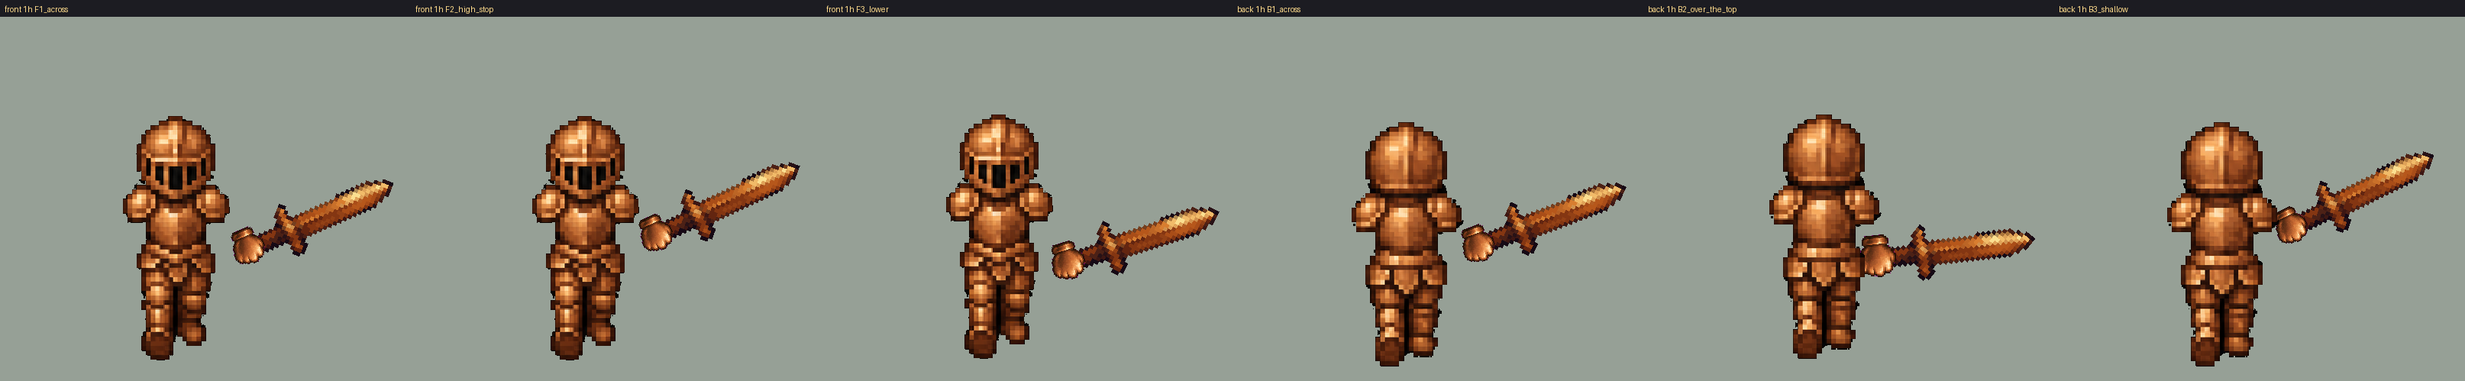
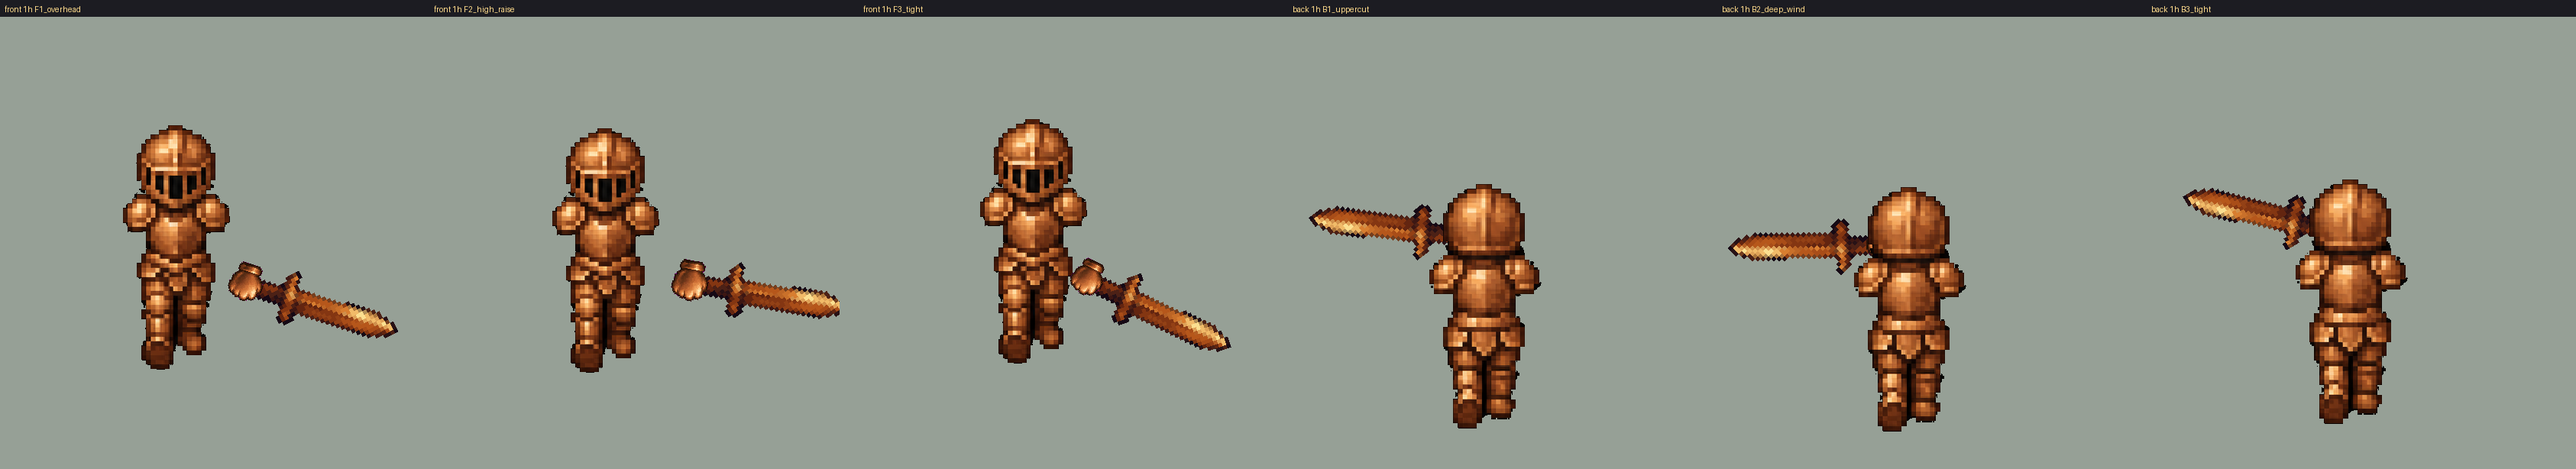
Facing down and up: their own motions, and they cover what they hit
Two corrections, both mine:

1. THE SWING HAS TO COVER WHAT IT HITS. This is a game. Facing down the player
   attacks the tile SOUTH of him - straight down the screen - so the blade must
   finish with its tip PAST HIS FEET. Facing up, past his head. My versions swept
   out to the side, which is a front-facing sprite doing the sideways attack: it
   covers nothing in the direction he is actually attacking. "all your looking
   down ones are pretty much the same thing as the sideways ones".

2. THEY ARE THEIR OWN MOTIONS, NOT THE SIDE SWING RE-AIMED. "you are starting
   with the sideways swing first and then trying to force it into different
   melds... and it also needs to finish the swing, so its weird you are like so
   obsessed with the sideways swing". The side swing is one monotonic sweep;
   facing the camera that is wrong twice - different plane, and a monotonic sweep
   STOPS DEAD instead of following through.

Each facing is now written in three phases - RAISE, STRIKE (through the tile),
FINISH (carry past contact and settle). Three options each, one- and two-handed,
with filmstrips showing the phases. Free, no API.

The arm is offset sideways so the blade comes down BESIDE him; swinging from a
shoulder at his centre puts the sword through his own torso and reads as
impaling rather than striking.

Also fixed: my first follow-through took the arm past vertical while unwinding
the blade by the same amount, so blade = arm + back stayed pinned near 90 and the
[…]

diff --git a/tools/player_sprites/swing_facings.py b/tools/player_sprites/swing_facings.py
@@ -48,37 +48,103 @@ def _mk(start, end, back_start, back_end, reach):
     return f
 
 
-# ⚠ THE BLADE-BACK ANGLE MUST UNWIND FURTHER WHEN THE ARM TRAVELS LESS.
-# Side-on the arm carries to -104, so a blade held 52 behind it ends at -52 — pointing down, correct.
-# Facing down the arm stops around -34 (it must not carry through into his own legs), and 52 behind that
-# is +18 — the tip ends UP IN THE AIR at the end of a downward swing. First pass did exactly that.
-# So these end with far less blade-back than the side view.
+# ⚠⚠ THIS IS A GAME. THE SWING HAS TO COVER WHAT IT HITS.
+# Owner, 2026-08-04: "when you strike something below you while facing down it means being able to strike
+# something below you, all your looking down ones are pretty much the same thing as the sideways ones".
+#
+# Facing DOWN, the player is attacking the tile SOUTH of him — which is straight DOWN THE SCREEN. So the
+# blade must travel down-screen and finish with its TIP PAST HIS FEET, covering that tile. A swing that
+# sweeps out to the side is cosmetically a front-facing sprite doing the sideways attack; it covers
+# nothing below him and is useless as an attack.
+#
+# Facing UP, the same in reverse: the blade must finish ABOVE HIS HEAD, covering the tile NORTH of him.
+#
+# This is why the blade ends at 0 behind the arm in these — the blade CONTINUES the arm, pointing straight
+# down (or straight up), which is what puts the tip out past the body.
 
-# FACING DOWN — he faces us. The blade comes down across the front of his body and STOPS in front,
-# never carrying through to the hip the way the side view does.
+# THESE ARE THEIR OWN MOTIONS, NOT THE SIDE SWING RE-AIMED.
+# Owner, 2026-08-04: "you are starting with the sideways swing first and then trying to force it into
+# different melds, the swing will be different when facing down and up, and it also needs to finish the
+# swing, so its weird you are like so obsessed with the sideways swing".
+#
+# The side swing is one monotonic sweep from behind the head to the hip. Facing the camera that is the
+# wrong shape twice over: the arc happens in a different plane, and a monotonic sweep STOPS DEAD at the
+# bottom instead of following through. So each of these is written in three phases:
+#
+#   RAISE    lift the blade clear, wind up
+#   STRIKE   fast, through the tile being attacked
+#   FINISH   carry PAST the contact point and settle - the swing finishes rather than freezing
+#
+# `phase(t, cuts, keys)` interpolates arm angle / blade-behind-arm across those phases.
+
+
+def phase(t, cuts, arm, back, reach, eases):
+    """Piecewise motion. `cuts` are the phase boundaries; arm/back have len(cuts)+1 keyframes."""
+    lo = 0.0
+    for i, hi in enumerate(list(cuts) + [1.0]):
+        if t <= hi or i == len(cuts):
+            u = 0.0 if hi <= lo else min(1.0, max(0.0, (t - lo) / (hi - lo)))
+            u = eases[i](u)
+            return (arm[i] + (arm[i + 1] - arm[i]) * u,
+                    reach,
+                    back[i] + (back[i + 1] - back[i]) * u)
+        lo = hi
+    return arm[-1], reach, back[-1]
+
+
+_OUT, _IN, _IO = R._ease_in_out, R._ease_in, R._ease_in_out
+
+
+def down_swing(raise_to, strike_to, finish_to, reach, back_hi=85, back_lo=-6, back_end=34):
+    """FACING DOWN. Raise beside the head, strike down through the tile below, follow through and settle."""
+    def f(t):
+        return phase(t, (0.30, 0.64),
+                     arm=[-55, raise_to, strike_to, finish_to],
+                     back=[back_hi, back_hi, back_lo, back_end],
+                     reach=reach, eases=[_OUT, _IN, _OUT])
+    return f
+
+
+def up_swing(wind_to, strike_to, finish_to, reach, back_hi=85, back_lo=4, back_end=30):
+    """FACING UP. Wind down in front, strike up through the tile above, carry over and settle.
+
+    ⚠ The FINISH has to move the blade somewhere VISIBLY DIFFERENT from the strike. First pass took the
+    arm past vertical while unwinding the blade by the same amount, so blade = arm + back stayed pinned
+    near 90 and the last three frames were identical — the swing froze at the top instead of finishing.
+    Carrying the arm over AND letting the blade fall past vertical is what makes it read as follow-through.
+    """
+    def f(t):
+        return phase(t, (0.30, 0.64),
+                     arm=[20, wind_to, strike_to, finish_to],
+                     back=[back_hi, back_hi, back_lo, back_end],
+                     reach=reach, eases=[_OUT, _IN, _OUT])
+    return f
+
+
+# FACING DOWN — attacking the tile below. The tip must land PAST HIS FEET, then the swing finishes.
 FRONT = [
-    ("F1_across", _mk(118, -34, 85, 5, 0.52)),      # down across, tip finishing low
-    ("F2_high_stop", _mk(110, -20, 85, -15, 0.48)),  # stops higher, blade unwinds harder to point down
-    ("F3_lower", _mk(125, -50, 85, 20, 0.55)),       # carries a little further down
+    ("F1_overhead", (0.26, 0.12), down_swing(112, -84, -52, 0.52)),
+    ("F2_high_raise", (0.30, 0.14), down_swing(132, -78, -44, 0.56)),
+    ("F3_tight", (0.22, 0.10), down_swing(96, -90, -60, 0.46)),
 ]
 
-# FACING AWAY — his back to us, weapon drawn BEHIND him.
+# FACING UP — attacking the tile above. The tip must land ABOVE HIS HEAD, then the swing finishes.
+# Weapon draws BEHIND him.
 BACK = [
-    ("B1_across", _mk(118, -40, 85, 10, 0.52)),
-    ("B2_over_the_top", _mk(140, -70, 85, 30, 0.50)),  # over the shoulder, straight down
-    ("B3_shallow", _mk(96, -20, 85, -10, 0.46)),       # shallower, stays high
+    ("B1_uppercut", (0.26, 0.22), up_swing(-58, 92, 142, 0.52)),
+    ("B2_deep_wind", (0.30, 0.22), up_swing(-74, 86, 150, 0.56)),
+    ("B3_tight", (0.22, 0.22), up_swing(-44, 96, 136, 0.46)),
 ]
 
 
-def render(kind, name, fn, two_handed):
+def render(kind, name, sh, fn, two_handed):
     hands, _ = R.load_hands(OUTFIT)
     bank = R.load_bank(OUTFIT, "front" if kind == "front" else "back", 0)
     body = bank[0]
     bh = gait.anchor(body)[1] - gait.anchor(body)[0] + 1
     icon = os.path.join(R.RES, "Items", S.TOOLS[TOOL]["icon"])
     return R.arm_swing_frames(body, hands, icon, bh, two_handed=two_handed, motion=fn, pad=210,
-                              shoulder=SH_FRONT if kind == "front" else SH_BACK,
-                              behind=(kind == "back"))
+                              shoulder=sh, behind=(kind == "back"))
 
 
 def main():
@@ -86,9 +152,9 @@ def main():
     os.makedirs(d, exist_ok=True)
     made = []
     for kind, variants in (("front", FRONT), ("back", BACK)):
-        for name, fn in variants:
+        for name, sh, fn in variants:
             for two in (False, True):
-                frames, ms = render(kind, name, fn, two)
+                frames, ms = render(kind, name, sh, fn, two)
                 lbl = "2h" if two else "1h"
                 p = os.path.join(d, f"sword_{kind}_{lbl}_{name}.gif")
                 frames[0].save(p, save_all=True, append_images=frames[1:], duration=ms, loop=0)
@@ -102,7 +168,7 @@ def main():
         sheet = Image.new("RGB", (len(rows) * W, H + 22), (28, 28, 34))
         dr = ImageDraw.Draw(sheet)
         for k, (lbl, frames) in enumerate(rows):
-            im = frames[int(len(frames) * 0.78)]
+            im = frames[-1]        # the END pose - does the tip actually reach past him?
             bg = Image.new("RGB", (W, H), BG)
             bg.paste(im, ((W - im.size[0]) // 2, (H - im.size[1]) // 2))
             sheet.paste(bg, (k * W, 22))

diff --git a/tools/_generated/player/reviews/2026-08-04-swing-facings/README.md b/tools/_generated/player/reviews/2026-08-04-swing-facings/README.md
@@ -1,38 +1,51 @@
 # 2026-08-04 — sword swing, facing DOWN and facing UP
 
-`ALL_1h.png` / `ALL_2h.png` show one frame near the end of each. Play the gifs to judge.
+`FILMSTRIP_front.png` and `FILMSTRIP_back.png` show one swing broken into its phases. `ALL_1h.png` /
+`ALL_2h.png` show the end pose of each option. Then play the gifs.
 
-Same model as the settled side-on swing: the hand travels an arc, the blade sits at a fixed angle behind
-the arm, the tool follows the hand. Only the aiming changes.
+## These are their own motions, not the side swing re-aimed
 
-## Facing down (toward the camera)
+> *"you are starting with the sideways swing first and then trying to force it into different melds, the
+> swing will be different when facing down and up, and it also needs to finish the swing"*
 
-| | |
-|---|---|
-| **F1_across** | down across the front, tip finishing low |
-| **F2_high_stop** | stops higher; the blade unwinds harder so the tip still points down |
-| **F3_lower** | carries a little further down |
-
-**It stops in front of him — it does not carry through to the hip like the side view does.** Side-on the
-arm swings past straight down; do that facing the camera and the blade ends up buried in his own legs.
-(*"the hoe in the face down view needs to stop in front of the user not swing all the way down"*.)
-
-## Facing up (away from the camera)
+The side swing is **one monotonic sweep** from behind the head to the hip. Facing the camera that is the
+wrong shape twice over — the arc is in a different plane, and a monotonic sweep **stops dead** at the
+bottom instead of following through. So each of these is written in three phases:
 
 | | |
 |---|---|
-| **B1_across** | down across, mirror of the front one |
-| **B2_over_the_top** | over the shoulder, straight down |
-| **B3_shallow** | shallower, stays high |
+| **RAISE** | lift the blade clear, wind up |
+| **STRIKE** | fast, through the tile being attacked |
+| **FINISH** | carry **past** the contact point and settle — the swing ends, it does not freeze |
 
-**The weapon draws BEHIND him** in this view, or it covers his back.
+## It has to cover what it hits
 
-## Two things this pass got right that the first attempt did not
+> *"when you strike something below you while facing down it means being able to strike something below
+> you, all your looking down ones are pretty much the same thing as the sideways ones"*
 
-- **The shoulder is in a different place in every view** — `(0.06, 0.40)` side-on, `(0.10, 0.10)` facing
-  down, `(0.10, 0.22)` facing away. Reusing the side-on shoulder is what once put the hand at face height
-  facing the camera (*"the face down the hand is too high... the hand should be lower"*).
-- **The blade-back angle has to unwind further when the arm travels less.** Side-on the arm reaches −104°,
-  so a blade held 52° behind it ends at −52°, pointing down. Facing down the arm stops around −34°, and
-  52° behind *that* is +18° — the tip finishing **up in the air** at the end of a downward swing, which is
-  exactly what the first pass rendered. These end with far less blade-back than the side view.
+**Facing down, the blade lands with its tip past his feet** — covering the tile south of him. **Facing up,
+past his head** — the tile north. A swing that sweeps out to the side is a front-facing sprite doing the
+sideways attack: it covers nothing in the direction he is actually attacking, so it is useless as an
+attack however good it looks.
+
+## The options
+
+| facing down | | facing up | |
+|---|---|---|---|
+| **F1_overhead** | raise beside the head | **B1_uppercut** | wind low, drive up |
+| **F2_high_raise** | bigger raise, more travel | **B2_deep_wind** | deeper wind-up |
+| **F3_tight** | tighter and faster | **B3_tight** | tighter and faster |
+
+Each one- and two-handed. Facing up, the weapon draws **behind** him.
+
+The arm is offset to the side so the blade comes down **beside** him rather than through his own torso —
+swinging from a shoulder at his centre reads as impaling, not striking.
+
+## Two things I got wrong on the way here, recorded
+
+- **The blade-back angle must unwind further when the arm travels less.** Side-on the arm reaches −104°,
+  so 52° behind it ends at −52°, pointing down. Facing down the arm stops higher, and 52° behind *that*
+  points the tip **up in the air** at the end of a downward swing.
+- **A follow-through has to move the blade somewhere visibly different from the strike.** The first up
+  swing took the arm past vertical while unwinding the blade by the same amount, so `blade = arm + back`
+  stayed pinned near 90° and the last three frames were identical.

diff --git a/docs/guides/art/CHARACTER_DESIGN_GUIDE.md b/docs/guides/art/CHARACTER_DESIGN_GUIDE.md
@@ -302,6 +302,23 @@ Owner: *"do sword_1h_f4_back85 as the official one, but have it pull back a tad 
 hand is at the hip not forward a little, you can also have tip slightly continue down more."*
 The other five tools still run the old shoulder-pivot approaches.
 
+**A SWING MUST COVER WHAT IT HITS.** This is a game, not a portrait. Facing down the player attacks the
+tile SOUTH of him — straight down the screen — so the blade has to finish with its **tip past his feet**.
+Facing up, past his head. A swing that sweeps out to the side is a front-facing sprite performing the
+sideways attack: it covers nothing in the direction he is attacking. Owner: *"when you strike something
+below you while facing down it means being able to strike something below you, all your looking down ones
+are pretty much the same thing as the sideways ones"*.
+
+**AND THEY ARE THEIR OWN MOTIONS, NOT THE SIDE SWING RE-AIMED.** The side swing is one monotonic sweep;
+facing the camera that is wrong twice over — different plane, and a monotonic sweep **stops dead** instead
+of following through. Each facing is written in three phases: **RAISE**, **STRIKE** (through the tile),
+**FINISH** (carry past contact and settle). Owner: *"the swing will be different when facing down and up,
+and it also needs to finish the swing, so its weird you are like so obsessed with the sideways swing"*.
+
+⚠ A follow-through must move the blade somewhere **visibly different** from the strike. Taking the arm
+past vertical while unwinding the blade by the same amount leaves `blade = arm + back` pinned — the up
+swing froze with three identical frames at the top.
+
 **Facing DOWN and UP are not the side swing rotated** (`swing_facings.py`):
 - **The shoulder moves per view** — `(0.06, 0.40)` side, `(0.10, 0.10)` front, `(0.10, 0.22)` away. Reusing
   the side-on shoulder is what put the hand at face height in the front view.
